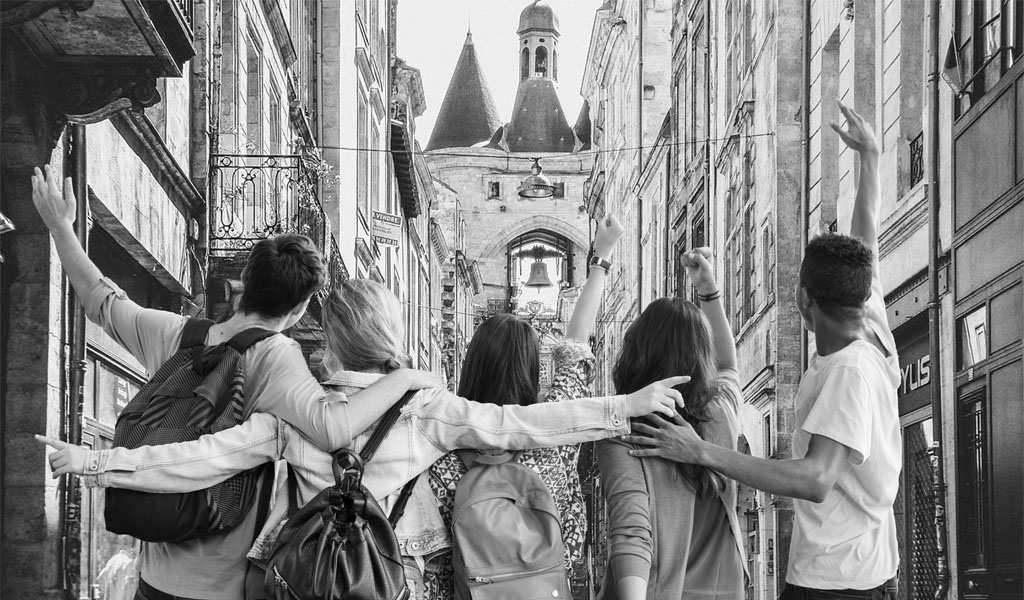
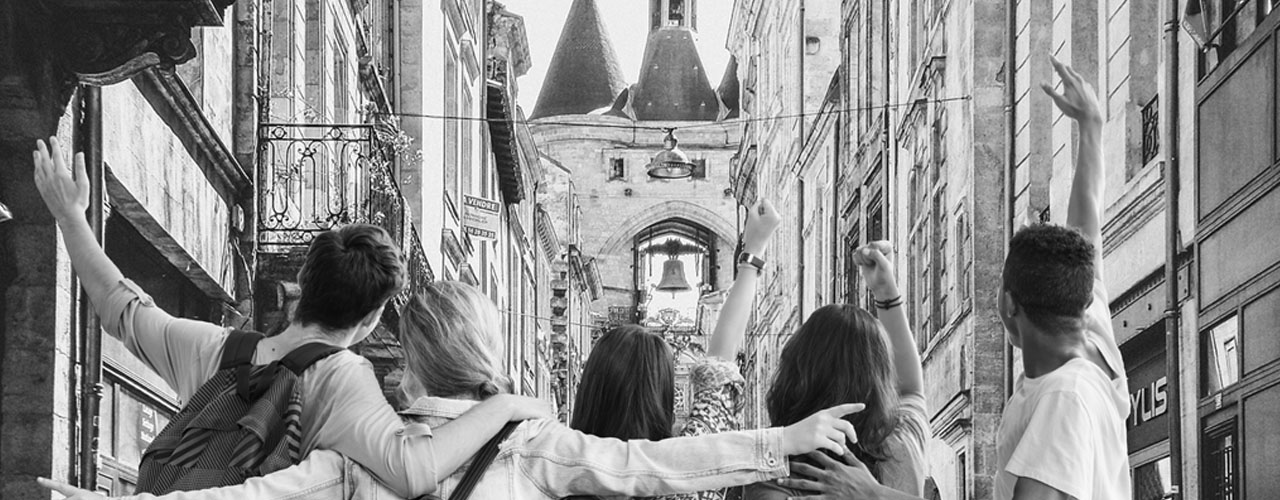
home

diff --git a/public/css/style.css b/public/css/style.css
@@ -5,13 +5,14 @@
 }
 
 .backgroundHome{
-/*	background-image: url("../img/fond1.jpg");
+	background-image: url("../img/fond1.jpg");
 	background-attachment:fixed;
 	background-repeat:no-repeat;
-	background-size:cover;*/
-	background-color: #A39E9E; 
-	height: 500px;
+	background-size:contain;
+/*	background-color: #A39E9E; */
+	height: 800px;
 	overflow-y : hidden;
+	overflow-x : hidden;
 	z-index: 0;
 	position:relative;
 }
@@ -19,10 +20,19 @@
 .LogoLUSCIOL{
 	z-index: 1;
 	position:relative;
-	margin-top: -300px; 
+	top: 0em;
+	left: 0.5em; 
+}
 
-
-
+.SloganLUCIOL h1{
+	z-index: 1;
+	position:relative;
+	text-align: center; 
+	font-family: 'Muli', sans-serif;
+	font-weight: bold;
+	color:rgb(92, 181, 189);
+	-webkit-text-stroke: 2px white;
+	font-size: 4rem;  
 }
 
 /*/adresse*/
